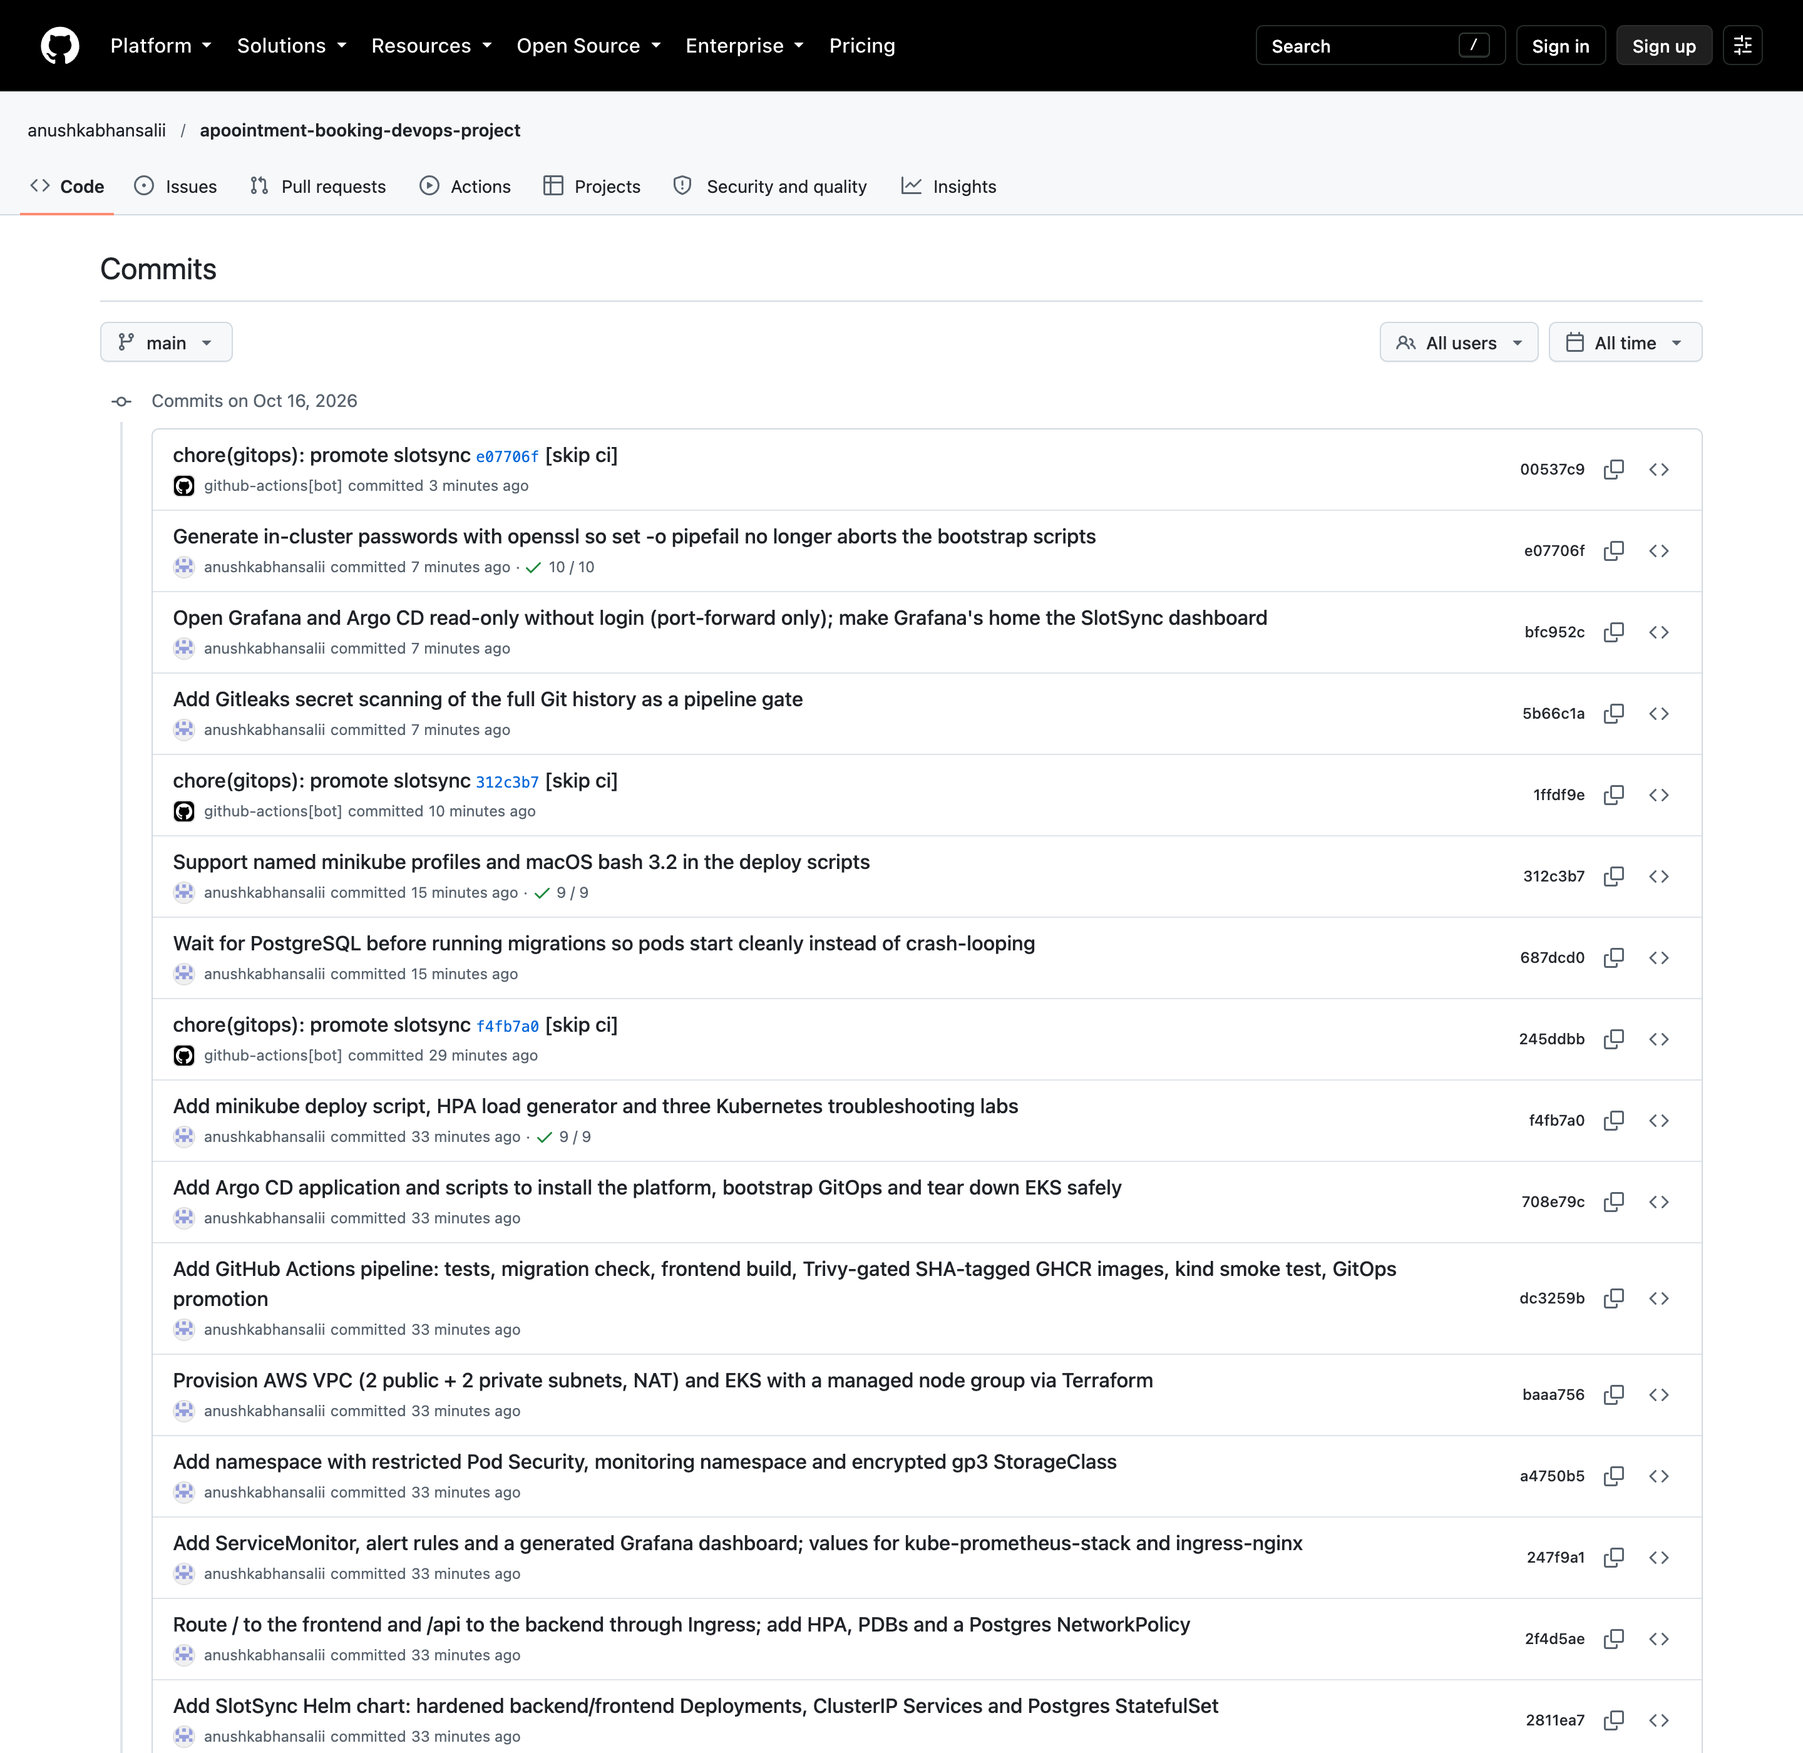
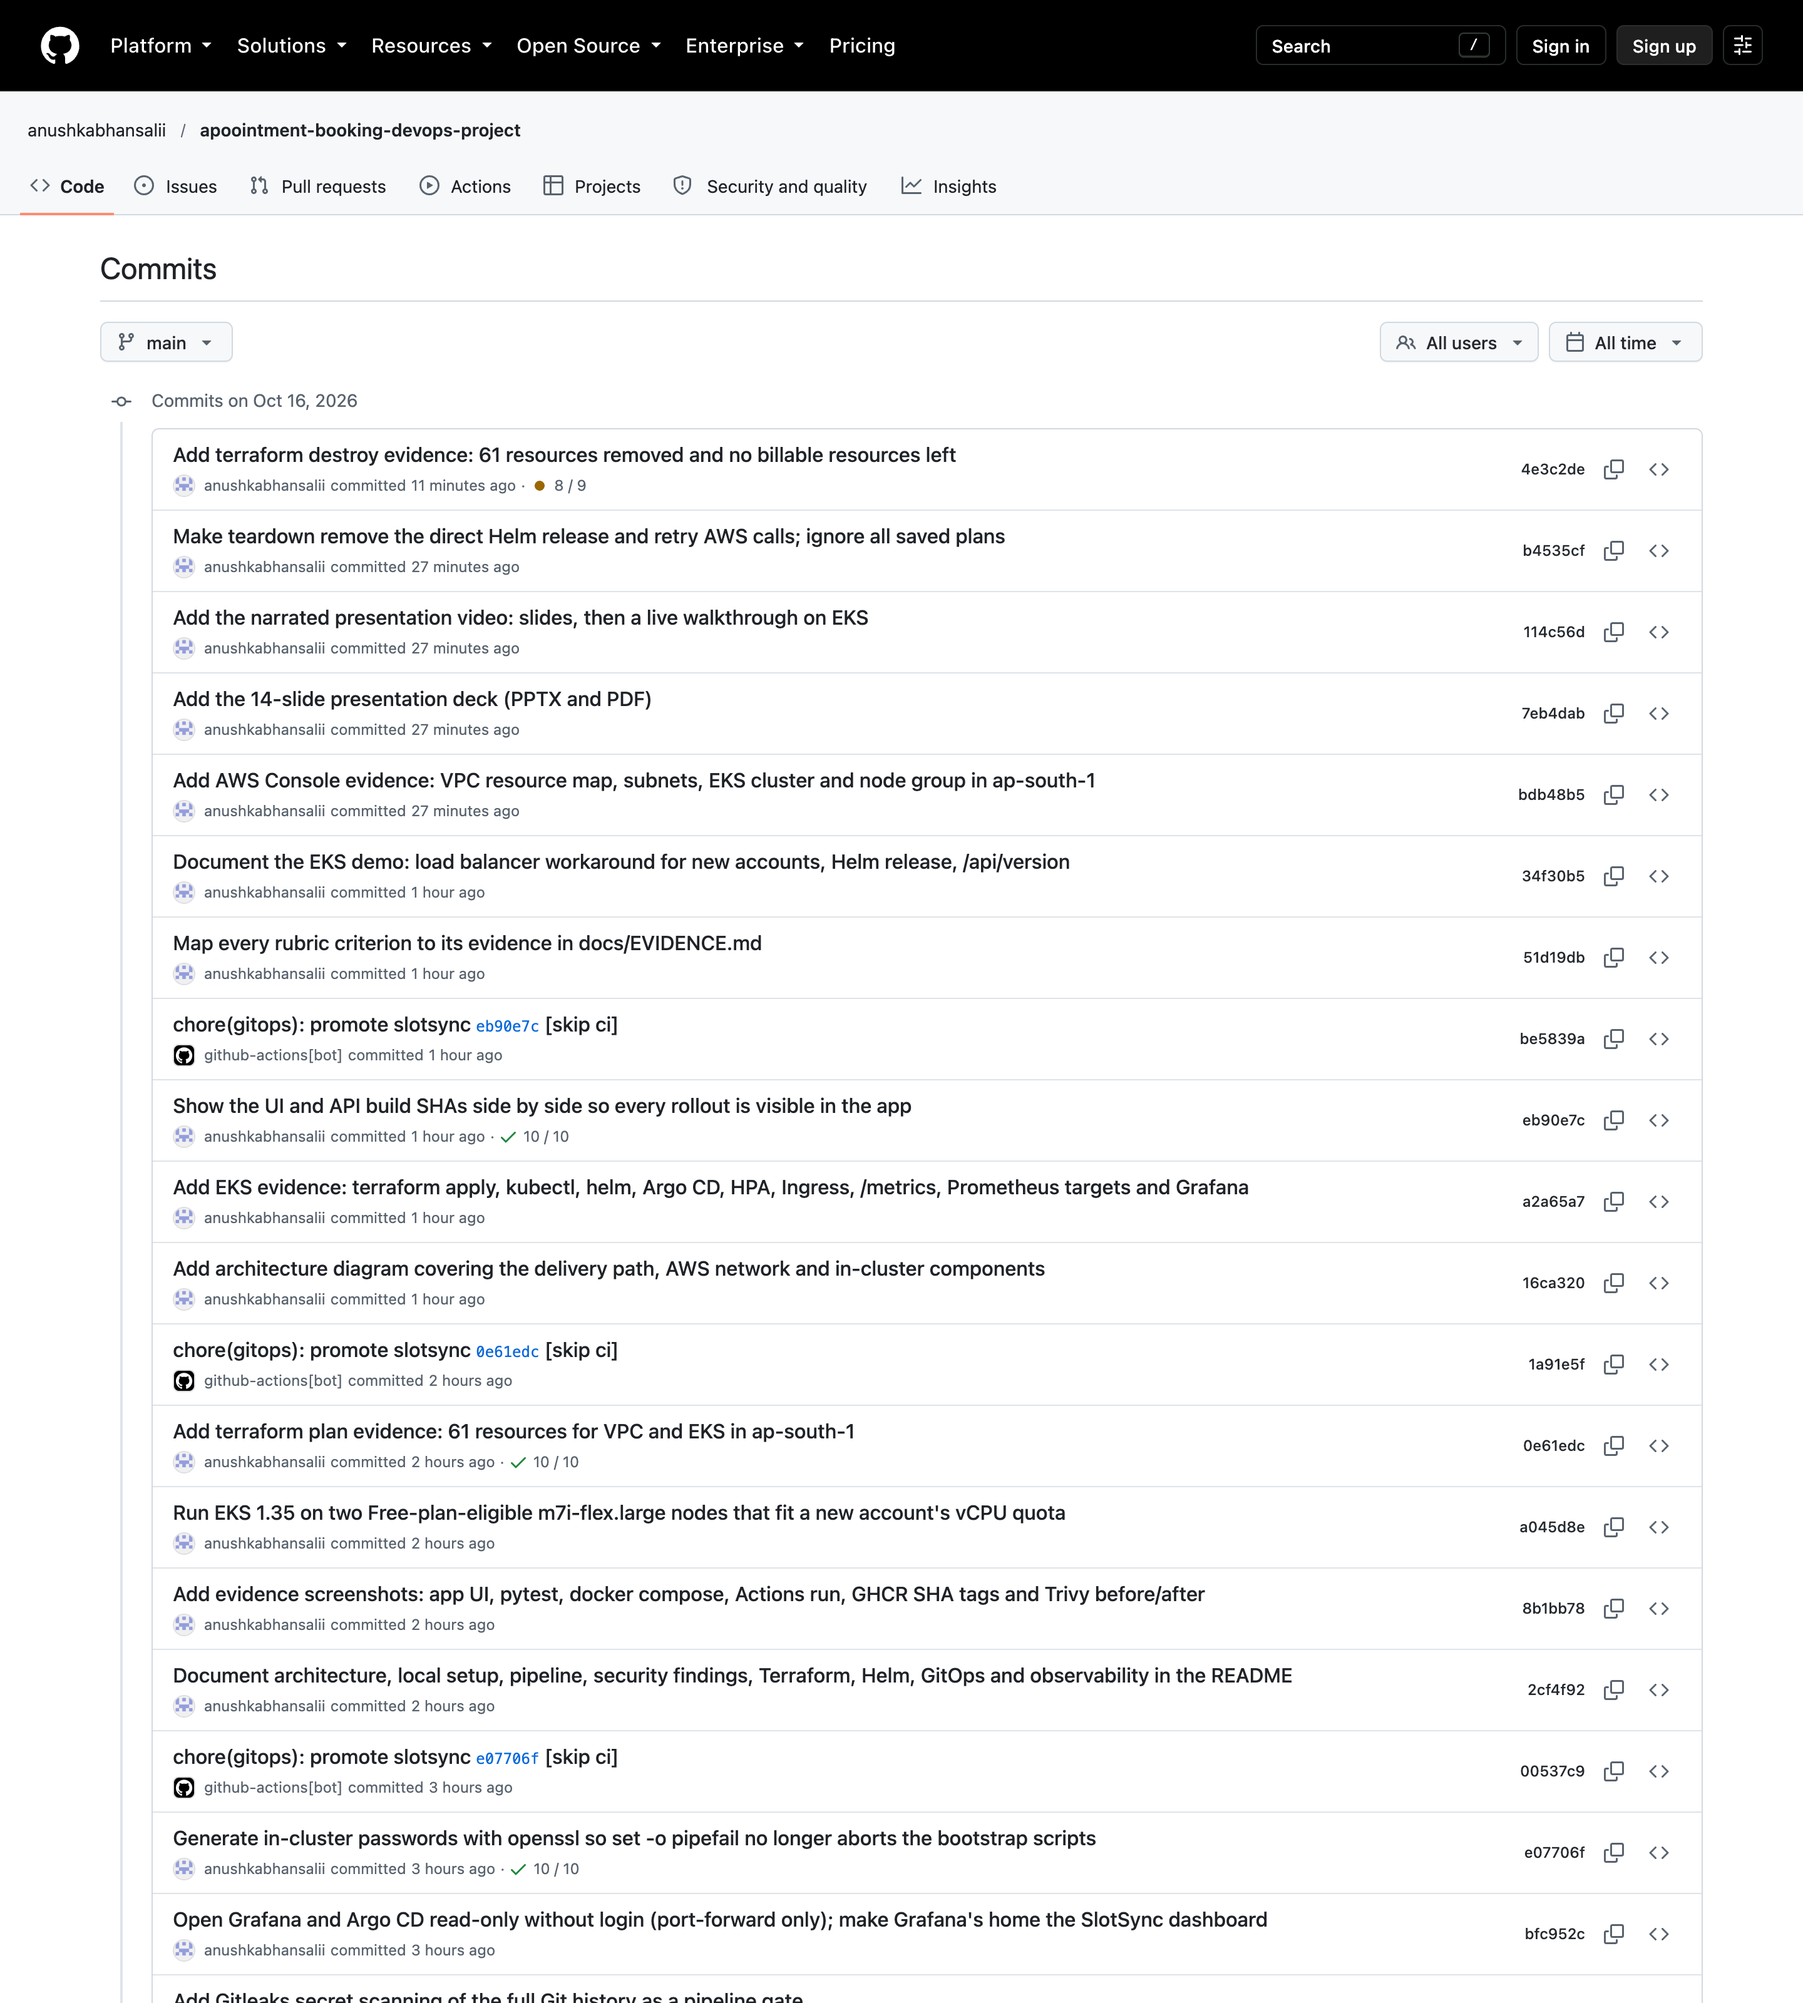
Add localhost:3000 browser evidence, an all-UP Prometheus targets view and the full commit history

diff --git a/docs/EVIDENCE.md b/docs/EVIDENCE.md
@@ -33,7 +33,7 @@ Pipeline run used for the live demo: [Actions run #5](https://github.com/anushka
 | Criterion | Evidence |
 |---|---|
 | Public repo | https://github.com/anushkabhansalii/apoointment-booking-devops-project |
-| Meaningful commits (≥10) | [m3-commit-history.png](screenshots/m3-commit-history.png) · `git log` (40+ commits) |
+| Meaningful commits (≥10) | [m3-commit-history.png](screenshots/m3-commit-history.png) · `git log` (40+ commits, plus the pipeline bot's promote commits) |
 | `.gitignore` | `.gitignore` — `.env`, `__pycache__`, `node_modules`, `.venv`, Terraform state, `*.tfvars` |
 
 ## M4 — Docker
@@ -44,7 +44,7 @@ Pipeline run used for the live demo: [Actions run #5](https://github.com/anushka
 | Frontend multi-stage (Node → Nginx) | `frontend/Dockerfile` (`node:20-alpine` → `nginx-unprivileged`) |
 | Non-root | backend `USER 10001`, frontend UID 101; enforced in K8s by Pod Security *restricted* |
 | `docker compose up --build` starts 3 services | [m4-docker-compose-up.png](screenshots/m4-docker-compose-up.png) |
-| App at `localhost:3000` | [m1-dashboard.png](screenshots/m1-dashboard.png) |
+| App at `localhost:3000` | [m4-browser-localhost-3000.png](screenshots/m4-browser-localhost-3000.png) |
 
 ## M5 — CI/CD
 
@@ -103,7 +103,7 @@ Ingress rules (`http://slotsync.localhost:8080` → ingress-nginx → `/` fronte
 | Criterion | Evidence |
 |---|---|
 | `/metrics` in Prometheus format | [m9-metrics-endpoint.png](screenshots/m9-metrics-endpoint.png) |
-| Prometheus scraping the app | [m9-prometheus-targets.png](screenshots/m9-prometheus-targets.png), [m9-prometheus-all-targets.png](screenshots/m9-prometheus-all-targets.png) |
+| Prometheus scraping the app | [m9-prometheus-targets.png](screenshots/m9-prometheus-targets.png) (8/8 backend pods UP), [m9-prometheus-all-targets.png](screenshots/m9-prometheus-all-targets.png) |
 | Grafana accessible + live panel | [m9-grafana-dashboard.png](screenshots/m9-grafana-dashboard.png) |
 | Values files | `monitoring/kube-prometheus-stack-values.yaml` |
 
